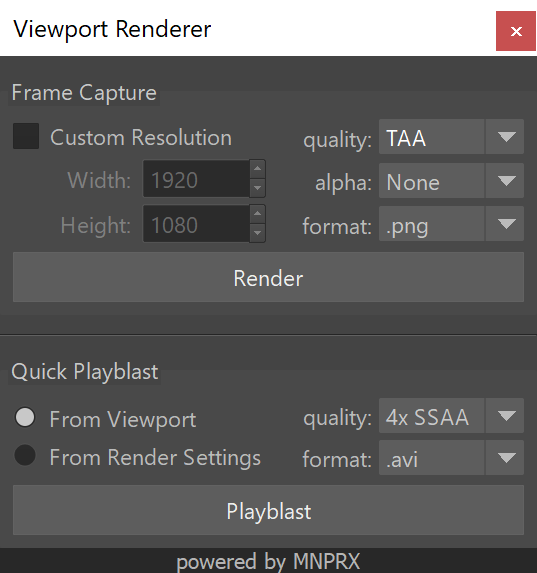
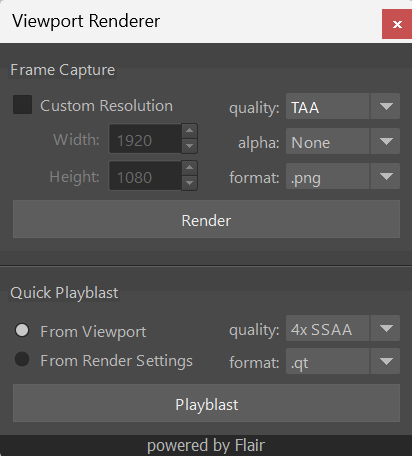
Adding rendering documentation

diff --git a/flair/rendering/index.md b/flair/rendering/index.md
@@ -3,98 +3,20 @@ layout: default
 title: Rendering
 nav_order: 8
 has_children: true
+has_toc: false
 ---
 
-<i class="fas fa-construction"></i> Updating soon...
+# Rendering
+{: .no_toc }
 
-Rendering with _Flair_ is a breeze compared to rendering with offline renderers, as every frame is calculated in real-time! In fact, computers normally take longer to save image files to disk than to render them.
+Rendering with _Flair_ is a breeze compared to rendering with offline renderers, as every frame is calculated in real-time! In fact, some computers can take longer to save image files to disk than to render them.
 
-There are many ways to get images out of _Maya_, but we strongly recommend the tools that we have developed to get the best and most consistent results, the _Viewport Renderer_ (`rendr` icon in the _[MNPRX shelf](../shelf)_) and the _Target Sequence Renderer_ (`tSeq` icon  in the _[MNPRX shelf](../shelf)_). These two tools will allow you to render images of up to 16K resolution  (16384×16384) with a graphics card supporting it. A tutorial using these tools can be found in the [Rendering Scenes](../rendering-scene) documentation.
+There are many ways to render images out of _Maya_, but we strongly recommend the tools that we have developed to get the best and most consistent results.
 
-<figure class="float-right aio-ui">
-	<img src="/media/rendering/rendr.png" alt="Viewport Renderer">
-	<figcaption>The Viewport Renderer captures frames and creates playblast.</figcaption>
-</figure>
+* [**Viewport Renderer**](viewport), `RENDR` in the [Flair shelf](/flair/getting-started/flair-shelf/), is simple tool to render individual frames and quick playblasts. 
 
+* [**Flair Renderer**](sequence), `SEQ` in the [Flair shelf](/flair/getting-started/flair-shelf/), is the go-to interface to render image _sequences_ and AOVs.
 
-## Viewport Renderer
-The _Viewport Renderer_ is a simple tool to render images and videos, divided into two sections: _Frame Capture_ (save image) and _Quick Playblasts_ (save video).
+* [**Standalone Renderer**](standalone) allows to render in batch mode without opening the Maya interface using _mayapy_. An example script on how to use the Flair API is found under `scripts/flair_standalone.py`.
 
-### Frame capture
-The upper section of the _Viewport Renderer_ contains all options to capture a frame (image).
-
-On the left side, you can define a custom resolution to render at. If left unchecked, the viewport resolution will be taken into consideration when rendering.
-
-On the right side, you can find the settings to render with.
-* _Quality_ - Defines the quality of the viewport rendering and correlates with the [quality settings of the configuration node](/software/MNPRX/docs/config/#quality). _TAA_ gives the best visual quality and is the default in _MNPRX_.
-* _Alpha_ - Defines how the alpha (transparency) is handled in the rendered frames. The options are _None_ (no alpha), _Linear_ (linear alpha) and _Premult._ (premultiplied alpha).
-* _Format_ - Defines the image file format to save the image as i.e., _.png, .jpg, .exr, .tif, .iff_.
-
-_.exr_ images will be in linear space, so you will have to do the gamma correction yourself for the results to look as they appear in _MNPRX_.
-{: .info}
-
-The `Render` button will capture/render the frame in the directory you specify.
-
-### Quick Playblast
-The lower section of the _Viewport Renderer_ contains all options to create a quick playblast (video).
-
-On the left side, you can define where to get the playblast resolution from. _From Viewport_ will get the viewport resolution to playblast with. _From Render Settings_ will get the [_Render Settings_](https://knowledge.autodesk.com/support/maya/learn-explore/caas/CloudHelp/cloudhelp/2020/ENU/Maya-Rendering/files/GUID-59DFB8B7-776B-4243-B404-A3D602FF8CFD-htm.html) resolution to playblast with.  
-
-On the right side, you can find the settings to playblast with.
-* _Quality_ - Defines the quality of the viewport rendering and correlates with the [quality settings of the configuration node](/software/MNPRX/docs/config/#quality). _4x SSAA_ gives the best visual quality within playblasts. To use _TAA_ quality, you'll have to render an image sequence with the [_Target Sequence Renderer_](/software/MNPRX/docs/rendering/#target-sequence-renderer) tool and create the video yourself.
-* _Format_ - Defines the video file format to save the playblast as i.e., _.avi, .mov (qt)_. The video file format will depend on what codecs your computer currently supports.
-
-The `Playblast` button will playblast the video in the directory you specify.
-
-<figure class="float-right aio-ui">
-	<img src="/media/rendering/tSeq.png" alt="Target Sequence Renderer">
-	<figcaption>The Target Sequence Renderer saves image sequences of any MNPRX target.</figcaption>
-</figure>
-
-
-## Target Sequence Renderer
-The _Target Sequence Renderer_ is a tool that allows to easily render any target/s as image sequences. The tool itself is divided into three sections: _Directory_, _Targets_ and _Settings_.
-
-### Directory
-The upper section of the _Target Sequence Renderer_ allows you to specify where the image sequence is going to be saved in. By default, your current project's directory will be set, but you can define any directory by clicking on the `Browse` button and navigating to your desired path.
-
-### Targets
-The left section outlines all internal targets available to render. By default, all targets that are required to replicate the stylization in a compositing application are pre-selected. This allows you to have the same stylization in, for example, _Nuke_ and have complete freedom to push the look further in _comp_. We've already replicated the [watercolor and warp stylization in _Nuke_](/software/MNPRX/docs/compositing-nuke/).
-
-Internal render targets (all except _outputTarget_) should be exported as _.exr_ to preserve the embedded linear float data of each image.
-{: .info}
-
-When exporting the _outputTarget_, all other targets will automatically be disabled and the _Render settings_ on the right section will be enabled. The _quality_ and _alpha_ can only be modified for the _outputTarget_.
-
-### Settings
-The right section of the _Target Sequence Renderer_ allows you to define all the sequence render settings. By default, the name will be that of your scene, but you can customize it however you want.
-
-**Folder structure** defines the folders that will be created within the directory. By default, only a name folder will be created. Additional folders can be created, if desired, for each camera and target that you render. The hierarchy will look something like this `directory/name/camera/target/image.ext`.
-
-**Render settings** allow you to customize the _quality_, _alpha_ and _format_ of the image sequence. It works in the same way as the [Viewport Renderer](/software/MNPRX/docs/rendering/#frame-capture)'s _Frame Capture_ settings.
-* _Quality_ - Defines the quality of the render and correlates with the [quality settings of the configuration node](/software/MNPRX/docs/config/#quality). _TAA_ gives the best visual quality and is the default.
-* _Alpha_ - Defines how the alpha (transparency) is handled in the rendered image sequence. The options are _None_ (no alpha), _Linear_ (linear alpha) and _Premult._ (premultiplied alpha).
-* _Format_ - Defines the image file format to save the image sequence as i.e., _.png, .jpg, .exr, .tif, .iff_.
-
-**Resolution** allows you to define a custom resolution to render with. You can specify the width and height individually up to 16384 pixels, if your graphics card supports it. A dedicated GPU with 8GB of VRAM should be able to render images of up to 8K without too much trouble.
-
-**Frame range** defines the start and end of the target sequence in the timeline.
-
-**Camera views** outlines the available cameras in the scene and allows you to select which views you want to render the sequence through. By default, all cameras set as 'renderable' in _Maya_'s [_Render Settings_](https://knowledge.autodesk.com/support/maya/learn-explore/caas/CloudHelp/cloudhelp/2020/ENU/Maya-Rendering/files/GUID-59DFB8B7-776B-4243-B404-A3D602FF8CFD-htm.html) will be selected.
-
-The `Render targets` button will start rendering the target sequence with the settings you specified. You can cancel the sequence render anytime by hitting on `cancel` within the render progress dialog.
-
-## Advaced
-
-### Render each light
-
-### Apply color space
-Applies the color space of the viewport onto the rendered image. Supported color spaces are `Raw`, `sRGB gamma`, `2.2 gamma`, `Rec 709 gamma` or `1.8 gamma`. If color space is not applied, the resulting colors will be the same as in the `Raw` color space.
-
-Keep in mind that image formats that default to linear color representations such as _.exr_ and _.tif_ won't show the applied color space until it is set afterwards. If you don't apply the color space to them, the color space will be baked in its linear format (caution with this).
-{: .info}
-
-
-### Bundle AOVs in EXR
-
-## FAQ
+These tools will allow you to render images of up to 16K resolution  (16384×16384) with a graphics card supporting it (enough VRAM).

diff --git a/flair/rendering/sequence.md b/flair/rendering/sequence.md
@@ -1,0 +1,105 @@
+---
+layout: default
+title: Flair Renderer
+nav_order: 2
+parent: Rendering
+---
+
+# Flair Renderer
+{: .no_toc }
+
+<details close markdown="block">
+  <summary>
+    Table of contents
+  </summary>
+  {: .text-delta }
+1. TOC
+{:toc}
+</details>
+
+The _Flair Renderer_ is a tool that allows to easily render image sequences and their AOVs. The tool itself is roughly divided into three sections: _Directory_, _AOVs to render_ and _Settings_.
+
+<figure class="aio-ui aio-window">
+	<img src="/media/rendering/seq.png" alt="Flair Renderer window">
+	<figcaption>The Flair Renderer saves image sequences of any Flair AOVs.</figcaption>
+</figure>
+
+## Directory
+The upper section of the _Flair Renderer_ allows you to specify where the image sequence is going to be saved in. By default, your current Maya project's directory will be set, but you can define any directory by clicking on the `Browse` button and navigating to your desired path.
+
+If changed, the specified path will be saved within the scene globals node and be the same the next time the scene is opened.
+
+## AOVs to render
+The left section outlines all AOVs (targets) available to render.
+
+By default, all AOVs required to replicate the shader style in compositing are pre-selected. This allows to have the same stylization in, for example, _Nuke_ and have complete freedom to push the look further in _comp_. To change the default AOVs that are pre-selected, you can modify the `maya/prefs/sequence_renderer.py` file.
+
+When rendering multi-layer _*.exr_ images, the _outputTarget_ will always be rendered (it is computed anyways). You can render only the _outputTarget_ by toggling it in the list, which disables all other targets automatically.
+
+Internal render targets (all except _outputTarget_) should be exported as _.exr_ to preserve the embedded linear float data of each image.
+{: .info}
+
+## Settings
+The right section of the _Flair Renderer_ allows you to define all render settings. 
+
+### Name
+By default, the name is set by tags in the following way: _Scene.Camera.Frame.ext_. You can edit and customize the name any way you want, either with tags or normal characters. If the scene is not named, _Unnamed_ will be used as the scene name.
+
+You can right click on the _line edit_ to go back to the default name, insert supported tags or clear the name entirely when needed.
+
+<figure class="aio-ui">
+	<img src="/media/rendering/naming-tags.png" alt="Right-click naming context">
+	<figcaption>The naming context opened after right-clicking.</figcaption>
+</figure>
+
+If changed, the specified name will be saved within the scene globals node and be the same the next time the scene is opened.
+
+### Folder structure
+The folder stucture defines the folders that will be created within the directory. By default, only a scene folder will be created. Additional folders can be created, if desired, for each camera and target that you render. When all are enabled, the hierarchy will look like this `directory/scene/camera/target/image.ext`.
+
+### Render settings 
+The render settings customizes the _quality_, _alpha_ and _format_ of the image sequence.
+* _Quality_ - Defines the quality of the viewport rendering and correlates with the [quality settings of the globals node](/flair/getting-started/globals/#quality). _TAA_ gives the best visual quality and is the default in Flair.
+* _Alpha_ - Defines how the alpha (transparency) is handled in the rendered image sequence. The options are _None_ (no alpha), _Linear_ (linear alpha) and _Premult._ (premultiplied alpha).
+* _Format_ - Defines the image file format to save the image sequence as i.e., _.png, .jpg, .exr, .tif, .iff_.
+
+### Resolution
+The resolution defines the resolution to render with. You can specify the width and height individually up to 16384 pixels. Just be mindful that your graphics card might not have enough VRAM to support extravagant resolutions.
+
+By default, the render resolution is grabbed from _Maya_'s [_Render Settings_](https://help.autodesk.com/view/MAYAUL/2024/ENU/?guid=GUID-59DFB8B7-776B-4243-B404-A3D602FF8CFD) and set back accordingly if changed within the Flair Renderer.
+
+### Frame range
+The frame range defines the start and end of the sequence from the timeline, but can be set to any integer.
+
+### Camera views
+Camera views outlines the available cameras in the scene and allows you to select from which camera you want to render the sequence through. By default, all cameras set as 'renderable' in _Maya_'s [_Render Settings_](https://help.autodesk.com/view/MAYAUL/2024/ENU/?guid=GUID-59DFB8B7-776B-4243-B404-A3D602FF8CFD) will be pre-selected and changed accordingly from the Flair Renderer.
+
+## Advaced
+The advanced settings can be toggled on-demand by clicking on them.
+
+<figure class="aio-ui">
+	<img src="/media/rendering/advanced.png" alt="The advanced Flair Renderer Settings">
+	<figcaption>Advanced Flair render settings.</figcaption>
+</figure>
+
+### Render each light
+Render each light will render all selected AOVs for each available light. This is useful when you want intricate lighting control in _comp_. However, make sure to only render the targets that get affected by different lights to avoid saving duplicate AOVs.
+
+### Apply color space
+Applies the color space of the viewport onto the rendered image. Supported color spaces are `Raw`, `sRGB gamma`, `2.2 gamma`, `Rec 709 gamma` or `1.8 gamma`. If color space is not applied, the resulting colors will be the same as in the `Raw` color space.
+
+When rendering the _outputTarget_, keep in mind that image formats that default to linear color representations such as _.exr_ and _.tif_ won't show the applied color space until it is set afterwards. If you don't apply the color space to them, the color space will be baked in its linear format (caution with this).
+{: .info}
+
+### Bundle AOVs in EXR
+Bundles all AOVs in a single _*.exr_ image. If you want to save each image individually, uncheck this setting.
+
+### Make deformations visible in these targets
+
+Distortions (deformations) will always be present in the _outputTarget_, _cryptomattes_ and the _ctrlsDepthTarget_ (within the Fray style).
+
+We want to add the ability to distort any target, but for now you can safely ignore this. A more intuitive functionality to distort AOVs will be available in future versions.
+{: .warning}
+
+## Render targets
+The `Render targets` button will start rendering the target sequence with the settings you specified. You can cancel the sequence render anytime by hitting on `cancel` within the render progress dialog.

diff --git a/flair/rendering/viewport.md b/flair/rendering/viewport.md
@@ -1,0 +1,51 @@
+---
+layout: default
+title: Viewport Renderer
+nav_order: 1
+parent: Rendering
+---
+
+# Viewport Renderer
+{: .no_toc }
+
+<details close markdown="block">
+  <summary>
+    Table of contents
+  </summary>
+  {: .text-delta }
+1. TOC
+{:toc}
+</details>
+
+The _Viewport Renderer_ (`RENDR` icon in the [_Flair shelf_](/flair/getting-started/flair-shelf/))  is a simple tool to render individual images and playblasts, divided into two sections: _Frame Capture_ (save image) and _Quick Playblast_ (save video).
+
+<figure class="aio-ui aio-window">
+	<img src="/media/rendering/rendr.png" alt="Viewport Renderer">
+	<figcaption>The Viewport Renderer captures frames and creates playblast.</figcaption>
+</figure>
+
+## Frame capture
+The upper section of the _Viewport Renderer_ contains all options to capture a frame (image).
+
+On the left side, you can define a custom resolution to render at. If left unchecked, the viewport resolution will be taken when rendering.
+
+On the right side, you can find the settings to render with.
+* _Quality_ - Defines the quality of the viewport rendering and correlates with the [quality settings of the globals node](/flair/getting-started/globals/#quality). _TAA_ gives the best visual quality and is the default in Flair.
+* _Alpha_ - Defines how the alpha (transparency) is handled in the rendered frames. The options are _None_ (no alpha), _Linear_ (linear alpha) and _Premult._ (premultiplied alpha).
+* _Format_ - Defines the image file format to save the image as i.e., _.png, .jpg, .exr, .tif, .iff_.
+
+Captured _.exr_ images will have the color space baked-in, as to facilitate its quick use for single images. Use the Flair Renderer if you do not want this behavior.
+{: .info}
+
+The `Render` button will open a saving dialog to capture/render the frame in the directory you specify.
+
+## Quick Playblast
+The lower section of the _Viewport Renderer_ contains all options to create a quick playblast (video).
+
+On the left side, you can define where to get the playblast resolution from. _From Viewport_ will get the viewport resolution to playblast with. _From Render Settings_ will get the [_Render Settings_](https://help.autodesk.com/view/MAYAUL/2024/ENU/?guid=GUID-59DFB8B7-776B-4243-B404-A3D602FF8CFD) resolution to playblast with.  
+
+On the right side, you can find the settings to playblast with.
+* _Quality_ - Defines the quality of the viewport rendering and correlates with the [quality settings of the globals node](/flair/getting-started/globals/#quality). _4x SSAA_ gives the best visual quality within playblasts. To use _TAA_ quality, you'll have to render an image sequence with the [_Flair Renderer_](/flair/rendering/sequence/) and create the video yourself.
+* _Format_ - Defines the video file format to save the playblast as i.e., _.avi, .mov (qt)_. The video file format will depend on what codecs your computer currently supports.
+
+The `Playblast` button will playblast the video in the directory you specify.

diff --git a/flair/rendering/standalone.md b/flair/rendering/standalone.md
@@ -1,0 +1,8 @@
+---
+layout: default
+title: Standalone Renderer
+nav_order: 3
+parent: Rendering
+---
+
+<i class="fas fa-construction"></i> Coming soon...
